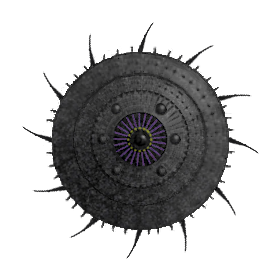
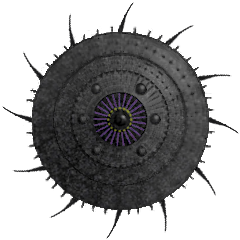
misc

diff --git a/source/public/client/model/weapon/special.js b/source/public/client/model/weapon/special.js
@@ -304,3 +304,8 @@ ThirdspacePsychicField.prototype.getMaxBoost = function(){
     return this.maxBoostLevel;
 };
 
+var PsionicConcentrator = function PsionicConcentrator(json, ship) {
+    Weapon.call(this, json, ship);
+};
+PsionicConcentrator.prototype = Object.create(Weapon.prototype);
+PsionicConcentrator.prototype.constructor = PsionicConcentrator;

diff --git a/source/server/model/weapons/specialWeapons.php b/source/server/model/weapons/specialWeapons.php
@@ -4445,11 +4445,16 @@ class ThirdspacePsychicField extends SparkField{
 		$fireOrder->pubnotes .= "<br> Initiative reduced by $effectIni5.";
 		
 		if (WeaponEM::isTargetEMResistant($ship,$system)){
-			$effectIni = floor($effectIni/2);  	//Ancients are somewhat resistant to pyschic attack from Thirdspace Aliens.		
-			return $effectIni;
-	//		$effectPower = floor($effectPower/2); //Let's say Ancients unaffected by power drain, to prevent Shadows etc from having to power down only weapon etc
-	//		return $effectPower;		
+			$effectIni = floor($effectIni/2);  	//Ancients are somewhat resistant to pyschic attack from Thirdspace Aliens.	
+			$effectPower = 0; //Let's say Ancients unaffected by power drain, to prevent Shadows etc from having to power down only weapon etc	
+			$result = array($effectIni, $effectPower)
+			return $result;	
 		}
+		
+	//	if (WeaponEM::isTargetEMResistant($ship,$system)){
+	//		$effectPower = 0; //Let's say Ancients unaffected by power drain, to prevent Shadows etc from having to power down only weapon etc
+	//		return $effectPower;
+	//	}
 				
 		if ($ship instanceof FighterFlight){  //place effect on first fighter, even if it's already destroyed!
 			$firstFighter = $ship->getSampleFighter();
@@ -4509,7 +4514,7 @@ class ThirdspacePsychicField extends SparkField{
 			return 0;
 		}
 	}
-	Remove, as advanced armour does not apply, altho possible reduce effect against ancients anyway?*/
+	Remove, as advanced armour does not apply, altho reduce effect against ancients anyway?*/
 	
 /*
 	public function onConstructed($ship, $turn, $phase){
@@ -4636,14 +4641,21 @@ class PsychicFieldHandler{
 	
 }//endof class PsychicFieldHandler
 
+
+
+
+
+
+
+
 class PsionicConcentrator extends Raking{
     /*Particle Concentrator - Gaim weapon*/
-	public $name = "ParticleConcentrator";
-	public $displayName = "Particle Concentrator";
-	public $iconPath = "ParticleConcentrator.png";
+	public $name = "PsionicConcentrator";
+	public $displayName = "Psionic Concentrator";
+	public $iconPath = "PsionicConcentrator.png";
 	
-	public $animation = "laser";
-        public $animationColor = array(255, 163, 26); //should be the same as Particle Cannon
+	public $animation = "bolt";
+        public $animationColor = array(153, 0, 0); //should be the same as Particle Cannon
 	/*
 	public $trailColor = array(30, 170, 255);	
 	public $animationWidth = 4;
@@ -4652,11 +4664,11 @@ class PsionicConcentrator extends Raking{
         public $animationExplosionScale = 0.25;
 	public $animationExplosionScaleArray = array(1=>0.25, 2=>0.35, 3=>0.45, 4=>0.55, 5=>0.70, 6=>0.85);
       */
-        public $loadingtime = 2;
-	public $intercept = 1; //intercept rating -1     
+        public $loadingtime = 1;
+	public $intercept = 2; //intercept rating -1     
 	
-        public $priority = 8;
-        public $priorityArray = array(1=>8, 2=>7, 3=>7, 4=>7, 5=>7); //weakest mode is light Raking weapon, heavier ones are heavy raking weapons
+        public $priority = 6;
+        public $priorityArray = array(1=>6, 2=>5, 3=>5, 4=>5, 5=>4, 6=>4); //weakest mode is light Raking weapon, heavier ones are heavy raking weapons
 	public $firingMode = 1;	
             public $firingModes = array(
                 1 => "Single",
@@ -4668,13 +4680,14 @@ class PsionicConcentrator extends Raking{
             );
         public $rangePenalty = 0.5; //-1/2 hexes - and this stays constant!
             //public $rangePenaltyArray = array( 1=>2, 2=>1, 3=>0.5, 4=>0.33, 5=>0.25 ); //Raking and Piercing mode
-        public $fireControl = array(2, 4, 5); // fighters, <mediums, <capitals 
-            public $fireControlArray = array( 1=>array(2, 4, 5), 2=>array(4, 6, 7), 3=>array(6, 8, 9), 4=>array(8, 10, 11), 5=>array(10, 12, 13), 6=>array(12, 14, 15) ); //+2 to hit per every additional combining weapon
+        public $fireControl = array(6, 5, 5); // fighters, <mediums, <capitals 
+            public $fireControlArray = array( 1=>array(6, 5, 5), 2=>array(7, 6, 6), 3=>array(8, 7, 7), 4=>array(9, 8, 8), 5=>array(10, 9, 9), 6=>array(11, 10, 10) ); //+1 fire control the more concentrators are used to hit per every additional combining weapon
 	
 	
 	
-	    public $damageType = "Raking"; //(first letter upcase) actual mode of dealing damage (Standard, Flash, Raking, Pulse...) - overrides $this->data["Damage type"] if set!
-	    public $weaponClass = "Particle"; //(first letter upcase) weapon class - overrides $this->data["Weapon type"] if set!
+	    public $damageType = "Standard"; //(first letter upcase) actual mode of dealing damage (Standard, Flash, Raking, Pulse...) - overrides $this->data["Damage type"] if set!
+  		public $damageTypeArray = array(1=>"Standard", 2=>"Raking", 3=>"Raking", 4=>"Raking", 5=>"Raking", 6=>"Raking");	    
+	    public $weaponClass = "Electromagnetic"; //(first letter upcase) weapon class - overrides $this->data["Weapon type"] if set!
 
 	
 	public $isCombined = false; //is being combined with other weapon
@@ -4684,8 +4697,8 @@ class PsionicConcentrator extends Raking{
 	
 	    public function setSystemDataWindow($turn){
 		      parent::setSystemDataWindow($turn);  
-		      $this->data["Special"] = "Can combine multiple Particle Concentrator into one concentrated shot - for +2 Fire Control and +1d10 damage per additional weapon (up to 5 additional weapon can be added).";  
-		      $this->data["Special"] .= "<br>If You allocate multiple Particle Concentrators in higher mode of fire at the same target, they will be combined."; 
+		      $this->data["Special"] = "Can combine multiple Psionic Concentrator into one concentrated shot - for +1 Fire Control and +1d10 damage per additional weapon (up to 5 additional weapon can be added).";  
+		      $this->data["Special"] .= "<br>If You allocate multiple Psionic Concentrators in higher mode of fire at the same target, they will be combined."; 
 		      $this->data["Special"] .= "<br>If not enough weapons are allocated to be combined, weapons will be fired in highest actually possible mode instead.";  
 		      $this->data["Special"] .= "<br>Concentrators do not need to be on the same ship, but need to be on the same hex to combine."; //tabletop: within 1 hex  			  
 		      $this->data["Special"] .= "<br>Hit chance will be average of all weapons combining.";//tabletop: use average EW, best range, worst criticals and no lock-on if ANY weapon lacks lock-on
@@ -4780,24 +4793,24 @@ class PsionicConcentrator extends Raking{
         {
             //maxhealth and power reqirement are fixed; left option to override with hand-written values
             if ( $maxhealth == 0 ){
-                $maxhealth = 9;
+                $maxhealth = 8;
             }
             if ( $powerReq == 0 ){
-                $powerReq = 7;
+                $powerReq = ;
             }
             parent::__construct($armour, $maxhealth, $powerReq, $startArc, $endArc);
         }
 	
 	
     public function getDamage($fireOrder){
-		return Dice::d(10, 1+$this->firingMode)+15; //2d10+15 +1d10 per every additional weapon
+		return Dice::d(10, 1+$this->firingMode)+5; //2d10+5 +1d10 per every additional weapon
 	}
 	public function setMinDamage(){    
-		$this->minDamage = 1+$this->firingMode+15;
+		$this->minDamage = 1+$this->firingMode+5;
 		$this->minDamageArray[$this->firingMode] = $this->minDamage;
 	}
 	public function setMaxDamage(){
-		$this->maxDamage = 10*(1+$this->firingMode)+15;
+		$this->maxDamage = 10*(1+$this->firingMode)+5;
 		$this->maxDamageArray[$this->firingMode] = $this->maxDamage;  
 	}
 } //endof class PsionicConcentrator

diff --git a/source/autoload.php b/source/autoload.php
@@ -2873,7 +2873,8 @@ spl_autoload_register(
 						'thirdspacepsychicfield' => '/server/model/weapons/specialWeapons.php',
       			        'psychicfieldhandler' => '/server/model/weapons/specialWeapons.php',
       			        'thirdspaceshieldprojection' =>	'/server/model/weapons/defensive.php',
-      			        'thirdspaceshieldprojector' =>	'/server/model/weapons/defensive.php',						
+      			        'thirdspaceshieldprojector' =>	'/server/model/weapons/defensive.php',
+      			        'psionicconcentrator' => '/server/model/weapons/specialWeapons.php',						
 						
 				
 				//let's end this with unit enhancement class...		    

diff --git a/source/server/model/ships/vree/ZShadowXonn.php b/source/server/model/ships/vree/ZShadowXonn.php
@@ -30,7 +30,7 @@ class ZShadowXonn extends VreeCapital{
 		$this->sideDefense = 16;
 
 		$this->imagePath = "img/ships/XonnShadow.png";
-		$this->canvasSize = 280;
+		$this->canvasSize = 240;
 
 		$this->addPrimarySystem(new Reactor(6, 25, 0, 0));
 		$this->addPrimarySystem(new Hangar(6, 3));
